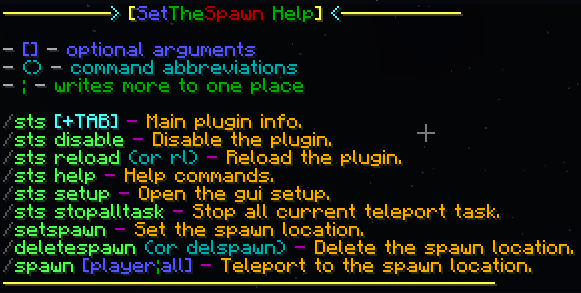
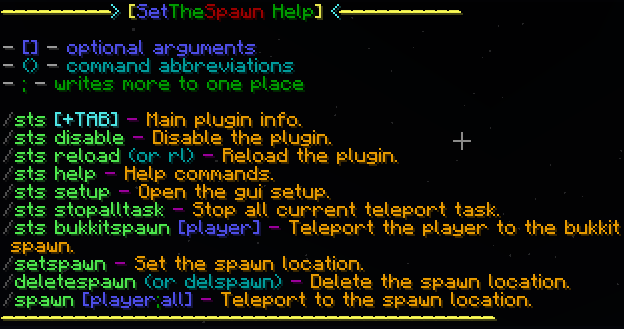
Added /sts bukkitspawn command
Other:
- Now if you want add empty place in GUI you can use AIR in item section.

diff --git a/src/hu/montlikadani/SetTheSpawn/Permissions.java b/src/hu/montlikadani/SetTheSpawn/Permissions.java
@@ -24,6 +24,8 @@ public class Permissions {
 	public static final Permission SIGNTPALL = new Permission("setthespawn.sign.use.everybody");
 	public static final Permission STOPALLCOUNT = new Permission("setthespawn.countdown.stopall");
 	public static final Permission BYPASSPVP = new Permission("setthespawn.bypass.blockspawninpvp");
+	public static final Permission BUKKITSPAWN = new Permission("setthespawn.bukkitspawn");
+	public static final Permission BUKKITSPAWNOTHER = new Permission("setthespawn.bukkitspawn.other");
 
 	public static final Permission SPAWNCOST = new Permission(plugin.getConfig().getString("spawn-cost.permission"));
 	public static final Permission SPAWNSIGNCOST = new Permission(plugin.getConfig().getString("spawn-cost.sign.permission"));
